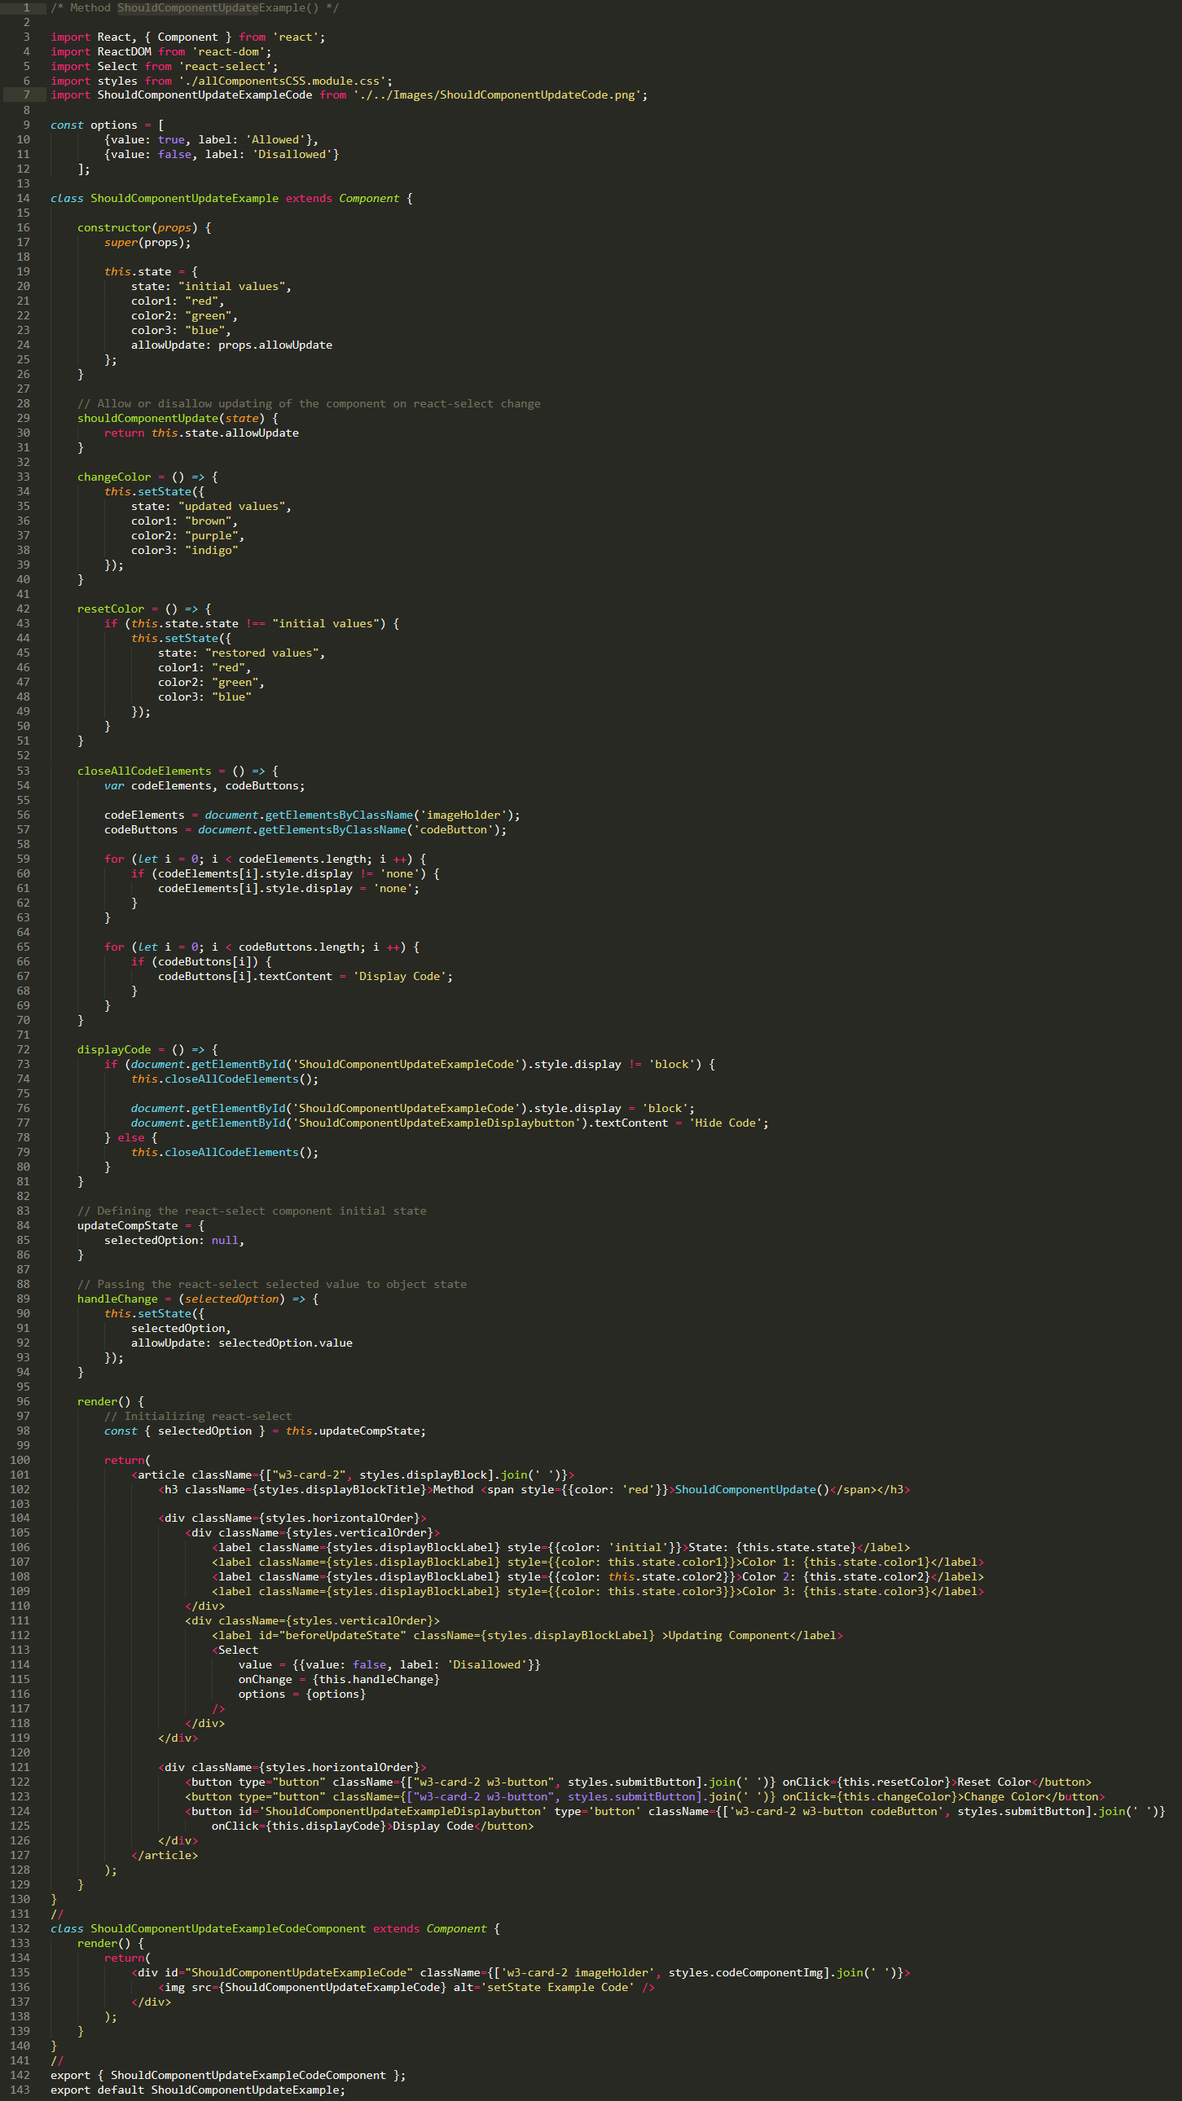
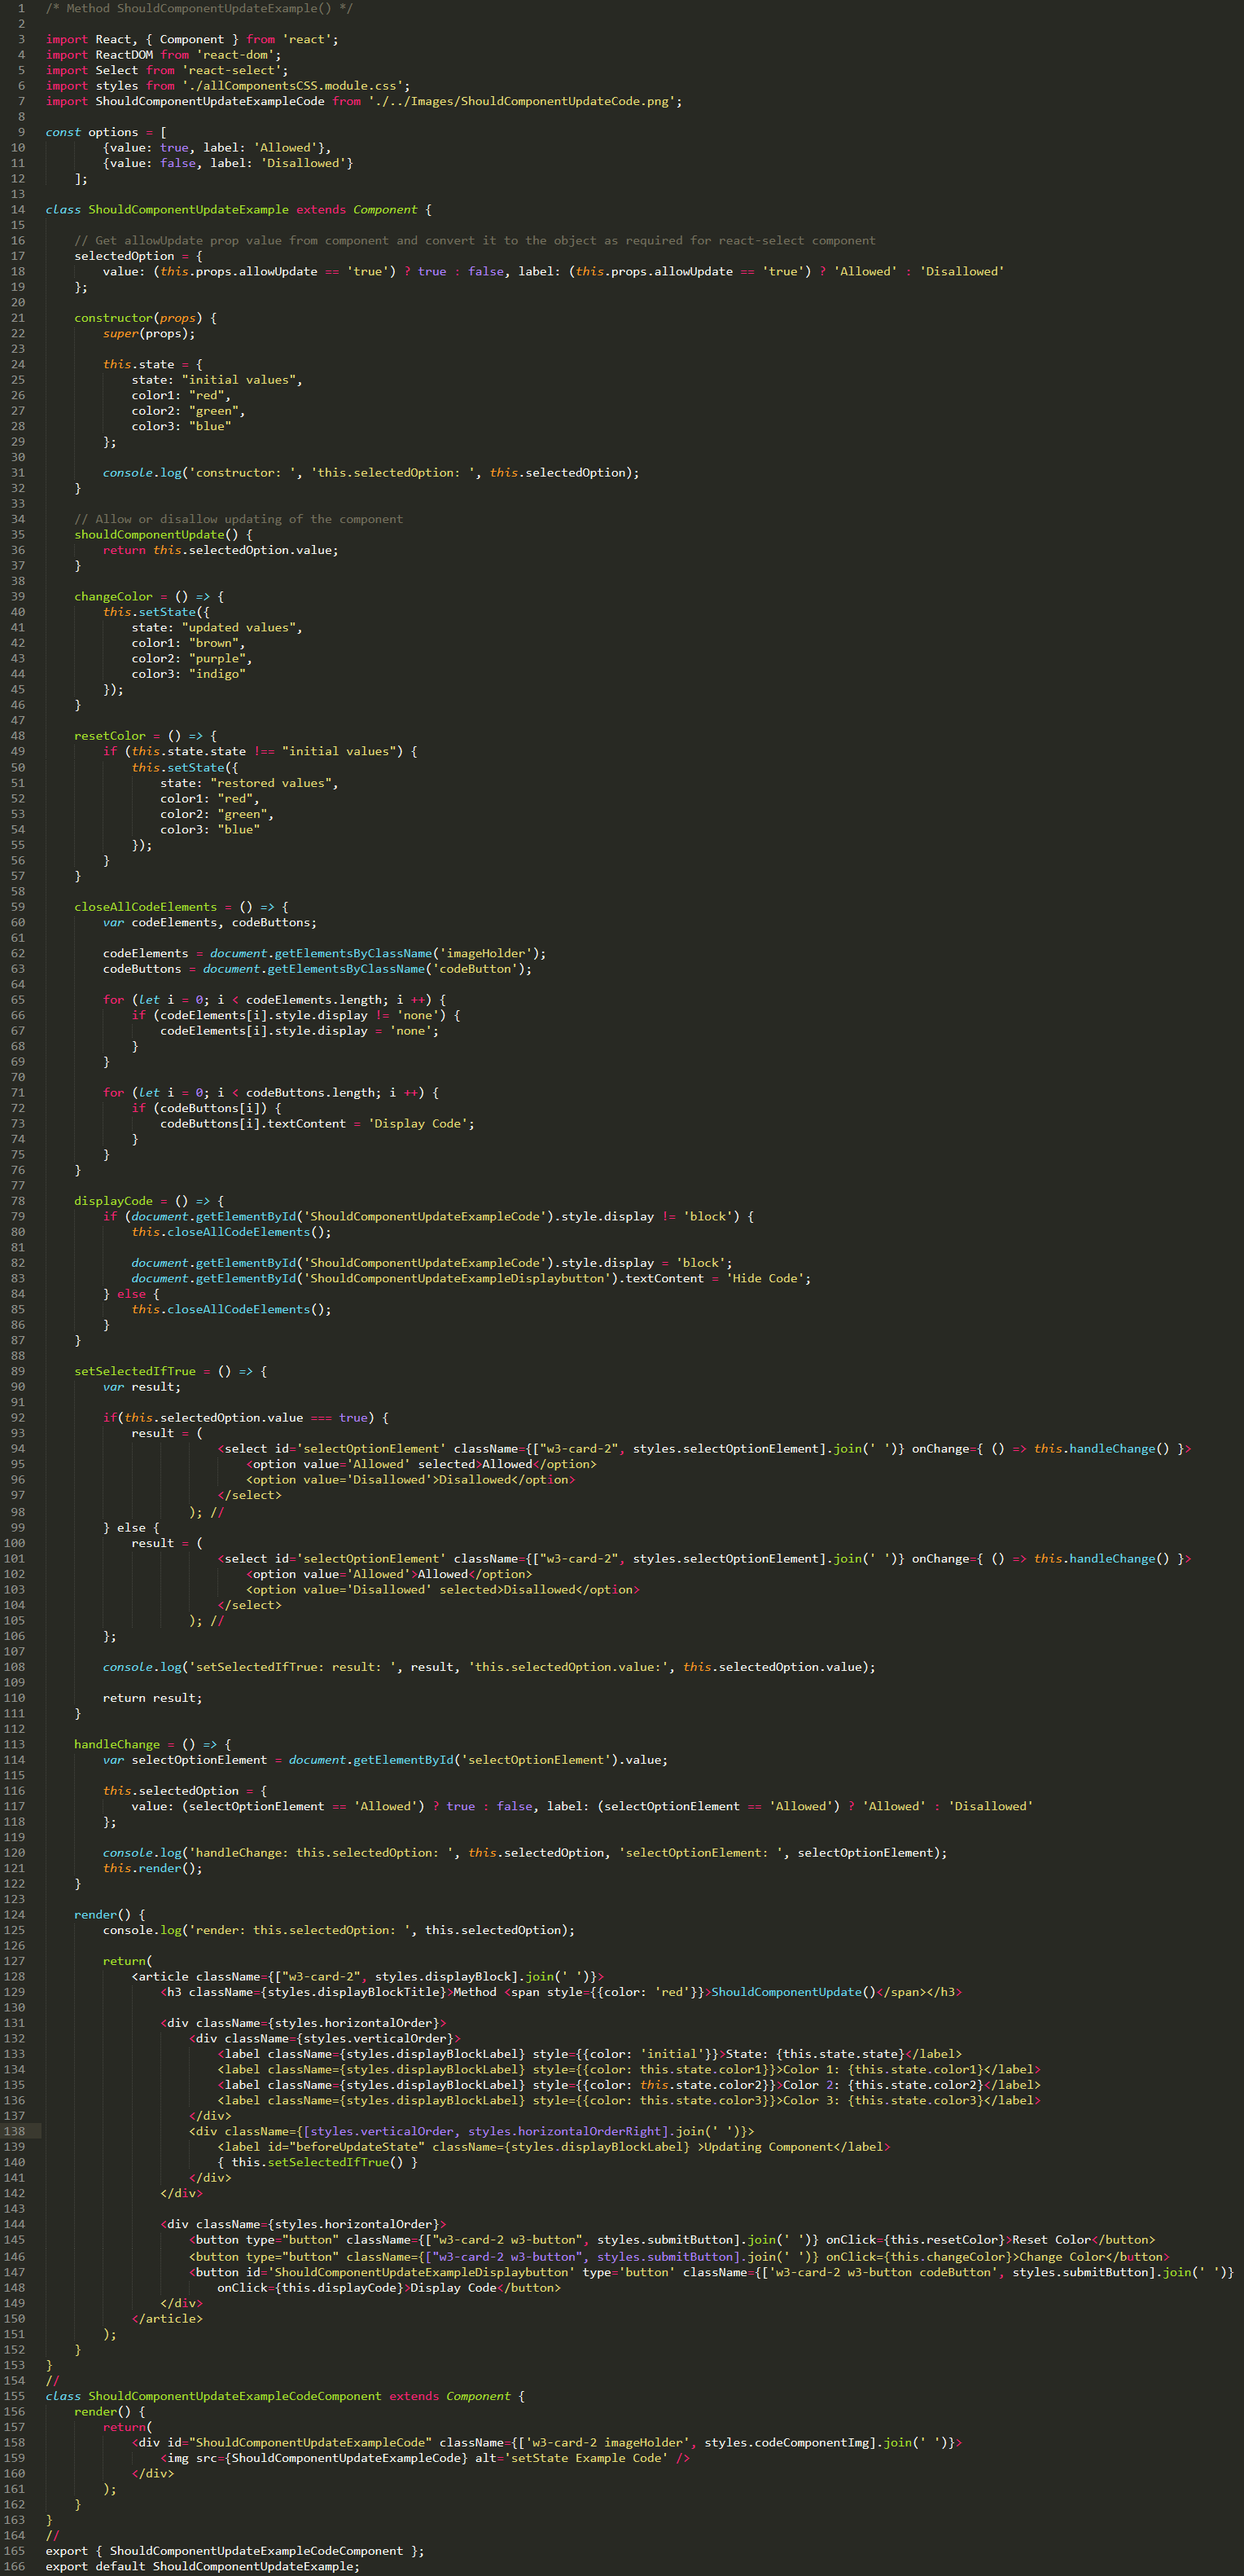
25-9-19

diff --git a/src/Components/ShouldComponentUpdateExample.js b/src/Components/ShouldComponentUpdateExample.js
@@ -31,21 +31,9 @@ class ShouldComponentUpdateExample extends Component {
 	    console.log('constructor: ', 'this.selectedOption: ', this.selectedOption);
   	}
 
-  	// Allow or disallow updating of the component on react-select change
-  	shouldComponentUpdate() {    		
-
-  		// var test = document.getElementById('selectOptionElement').children[1].children[0].children[0].textContent;
-
-  		// if (this.selectedOption.value === true) {
-  		// 	test = 'Allowed';
-  		// } else {
-  		// 	test = 'Disallowed';
-  		// }  		
-
-  		console.log('shouldComponentUpdate, this.selectedOption.value: ', this.selectedOption.value);
-
-  		return this.selectedOption.value;
-  		// return true
+  	// Allow or disallow updating of the component
+  	shouldComponentUpdate() {
+  		return this.selectedOption.value;  		
   	}
 
   	changeColor = () => {
@@ -98,17 +86,43 @@ class ShouldComponentUpdateExample extends Component {
  		} 		
  	} 	
 
- 	// Passing the react-select selected value to object state
- 	handleChange = (selectedOption) => {
- 		this.setState({});
+ 	setSelectedIfTrue = () => {
+ 		var result;
 
-		this.selectedOption = selectedOption;
+ 		if(this.selectedOption.value === true) { 
+ 			result = (
+			 			<select id='selectOptionElement' className={["w3-card-2", styles.selectOptionElement].join(' ')} onChange={ () => this.handleChange() }>
+			        		<option value='Allowed' selected>Allowed</option>
+			        		<option value='Disallowed'>Disallowed</option>
+			    		</select>
+			 		); //
+		} else {
+			result = (
+			 			<select id='selectOptionElement' className={["w3-card-2", styles.selectOptionElement].join(' ')} onChange={ () => this.handleChange() }>
+			        		<option value='Allowed'>Allowed</option>
+			        		<option value='Disallowed' selected>Disallowed</option>
+			    		</select>
+			 		); //
+		};
 
- 		console.log('handleChange: this.selectedOption: ', this.selectedOption, 'selectedOption: ', selectedOption);
- 	} 	
+		console.log('setSelectedIfTrue: result: ', result, 'this.selectedOption.value:', this.selectedOption.value);
+ 		
+ 		return result;
+ 	}
+
+ 	handleChange = () => {
+ 		var selectOptionElement = document.getElementById('selectOptionElement').value;
+
+		this.selectedOption = {
+			value: (selectOptionElement == 'Allowed') ? true : false, label: (selectOptionElement == 'Allowed') ? 'Allowed' : 'Disallowed'
+		};
+
+ 		console.log('handleChange: this.selectedOption: ', this.selectedOption, 'selectOptionElement: ', selectOptionElement);
+ 		this.render();
+ 	} 
 
  	render() {
- 		console.log('render: this.selectedOption: ', this.selectedOption, 'this.selectedOption.value: ', this.selectedOption.value, 'selectOptionElement:', );
+ 		console.log('render: this.selectedOption: ', this.selectedOption);
  		
 		return(			
 			<article className={["w3-card-2", styles.displayBlock].join(' ')}>
@@ -121,13 +135,9 @@ class ShouldComponentUpdateExample extends Component {
 			            <label className={styles.displayBlockLabel} style={{color: this.state.color2}}>Color 2: {this.state.color2}</label>
 			            <label className={styles.displayBlockLabel} style={{color: this.state.color3}}>Color 3: {this.state.color3}</label>		            
 		            </div>
-		            <div className={styles.verticalOrder}>										
+		            <div className={[styles.verticalOrder, styles.horizontalOrderRight].join(' ')}>										
 						<label id="beforeUpdateState" className={styles.displayBlockLabel} >Updating Component</label>			            
-                    	<Select id="selectOptionElement"
-                    		value = {this.selectedOption}
-                    		onChange = {this.handleChange}
-                    		options = {options} 
-                		/>
+                    	{ this.setSelectedIfTrue() }
 		            </div>
 	            </div>
 

diff --git a/src/App.js b/src/App.js
@@ -29,7 +29,7 @@ class App extends Component {
 
               <div className="horizontalOrder">
                 <ComponentDidMountExample favCol="maroon" />
-                <ShouldComponentUpdateExample allowUpdate = "false" />
+                <ShouldComponentUpdateExample allowUpdate = "true" />
               </div>
 
               <div className="horizontalOrder">
@@ -55,7 +55,7 @@ class App extends Component {
 
                Option 2: Use a button instead react-select component (Display/Hide Code button is working when ShouldComponentUpdate returns false.) 
 
-               Option 3: Use a HTML select element instead of react-select element
+               Option 3: Use a HTML select element instead o
               */}
               <ShouldComponentUpdateExampleCodeComponent />
               <GetSnapshotBeforeUpdateExampleCodeComponent />

diff --git a/src/Components/allComponentsCSS.module.css b/src/Components/allComponentsCSS.module.css
@@ -34,12 +34,18 @@
 	margin: 20px 0 0 0;
 }
 
+.horizontalOrderRight {
+	display: flex;
+	align-items: flex-end;
+	margin-right: 5px; 
+}
+
 .submitButton {
 	font-family: Arial, Helvetica, sans-serif;
 	font-size: 16px;
     font-weight: bold;
     color: white;
-    /*min-width: 150px;   */
+    min-width: 140px;   
     margin: 0 1px;
     background-color: #a82025 !important;
     border: 2px solid white;
@@ -65,4 +71,15 @@
 	display: none;
 	overflow: scroll;
 	max-height: 1058px;
+}
+
+.selectOptionElement {
+	width: 150px;
+	height: 36px;
+	text-indent: 5px;
+	color: white;
+	margin: 5px 0;
+	background-color: #a82025;
+	border: 2px solid white;
+    border-radius: 5px;
 }
